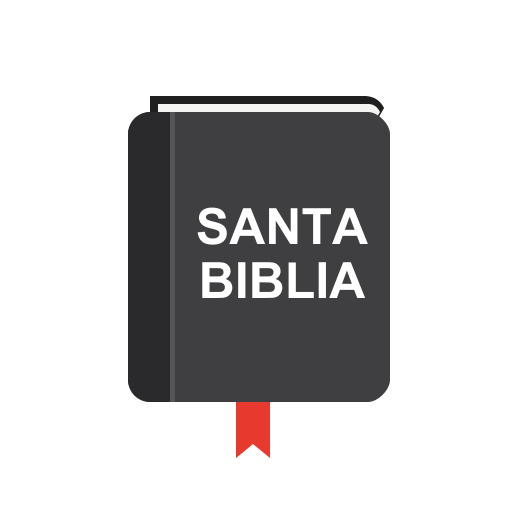
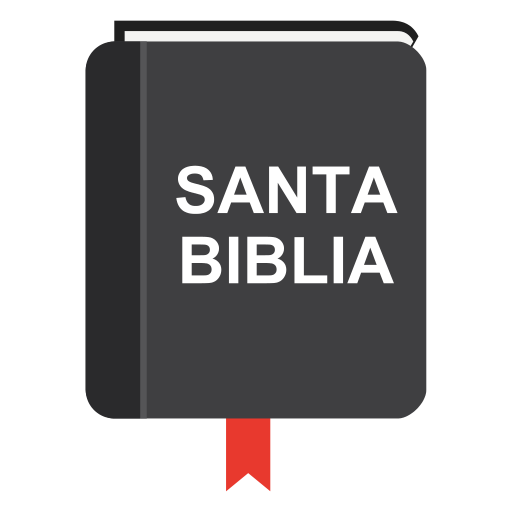
Icono: el libro ocupa casi todo el recuadro
Sobraba blanco alrededor. Versión aparte con margen para Android, que puede
recortar el icono en círculo.

Changed region(s): [[0.1562, 0.0312, 0.8438, 0.9688]]

diff --git a/index.html b/index.html
@@ -7,8 +7,8 @@
   <meta name="description" content="La Biblia, leída en voz alta con voces naturales y resaltado palabra por palabra. En español e inglés.">
   <meta name="theme-color" content="#F6F5F1">
   <link rel="manifest" href="manifest.webmanifest">
-  <link rel="icon" href="icon.svg" type="image/svg+xml">
-  <link rel="apple-touch-icon" href="icon-180.png">
+  <link rel="icon" href="icon.svg?v=3" type="image/svg+xml">
+  <link rel="apple-touch-icon" href="icon-180.png?v=3">
   <meta name="apple-mobile-web-app-capable" content="yes">
   <meta name="apple-mobile-web-app-status-bar-style" content="default">
   <link rel="preconnect" href="https://fonts.googleapis.com">

diff --git a/herramientas/iconos.py b/herramientas/iconos.py
@@ -162,9 +162,21 @@ if __name__ == '__main__':
     # La opción elegida pasa a ser el icono de la app.
     elegida = 'f'
     cuerpo = OPCIONES[elegida][1]
+
+    # El dibujo ocupa casi todo el icono: con el tamaño de la hoja de opciones
+    # quedaba mucho blanco alrededor. El libro (con su cinta) va de 128 a 390
+    # en horizontal y de 96 a 458 en vertical; se amplía alrededor de su centro.
+    def ajustado(k):
+        fondo, _, dibujo = cuerpo.strip().partition('\n')
+        cx, cy = 259, 277
+        return f'{fondo}\n<g transform="translate(256 256) scale({k}) translate({-cx} {-cy})">{dibujo}</g>'
+
+    lleno = ajustado(1.3)          # iPhone, favicon: se usa el cuadrado entero
+    seguro = ajustado(1.0)         # Android puede recortar en círculo: deja margen
     with open('icon.svg', 'w', encoding='utf-8', newline='\n') as f:
-        f.write(svg(cuerpo))
+        f.write(svg(lleno))
     # Los PNG van sin recorte: el sistema redondea las esquinas por su cuenta.
-    png(svg(cuerpo, recorte=False), 512, 'icon-512.png')
-    png(svg(cuerpo, recorte=False), 180, 'icon-180.png')
+    png(svg(lleno, recorte=False), 512, 'icon-512.png')
+    png(svg(lleno, recorte=False), 180, 'icon-180.png')
+    png(svg(seguro, recorte=False), 512, 'icon-512-maskable.png')
     print('icono de la app:', elegida)
